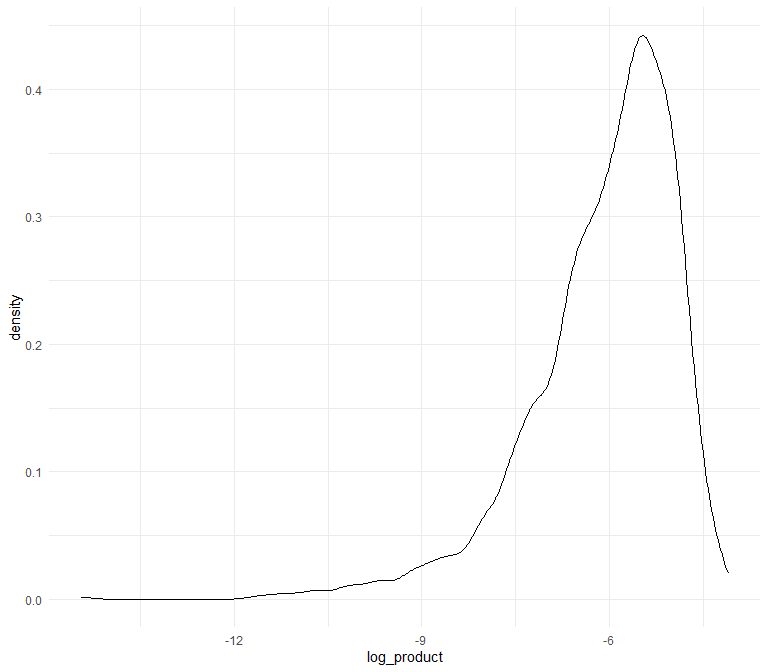
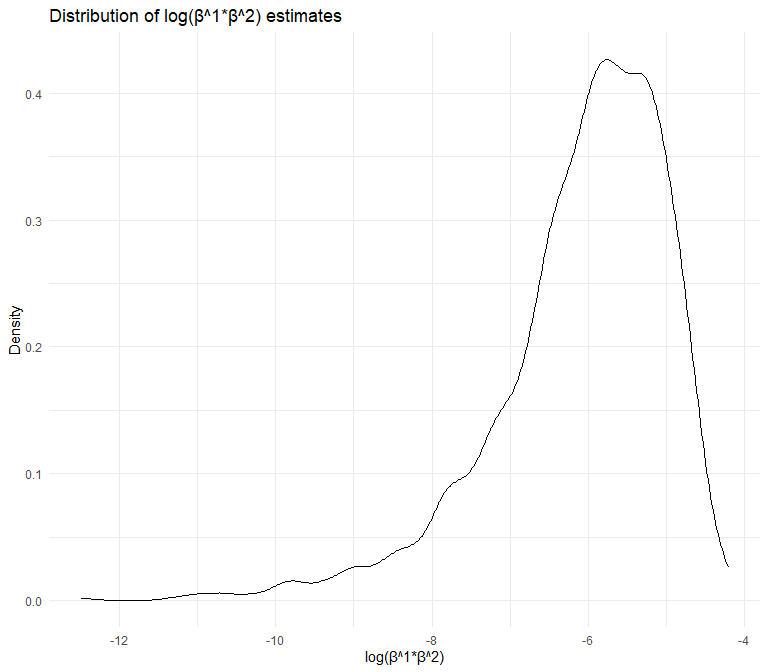
final changes, sorry

diff --git a/p8105_hw6_jmm2511.md b/p8105_hw6_jmm2511.md
@@ -3,7 +3,7 @@ p8105_hw6_jmm2511
 Jessie Merrifield
 2023-11-30
 
-## Problem 2
+# Problem 2
 
 Using Central Park weather data
 
@@ -57,29 +57,55 @@ q2_estimates = weather_df %>%
 
 ``` r
 #removed NaN values
+
+head(q2_estimates)
 ```
+
+    ## # A tibble: 6 × 3
+    ## # Groups:   strap_number [2]
+    ##   strap_number log_product r_squared
+    ##   <chr>              <dbl>     <dbl>
+    ## 1 0001               -5.44     0.898
+    ## 2 0001               -5.44     0.898
+    ## 3 0001               -5.44     0.898
+    ## 4 0006               -7.18     0.918
+    ## 5 0006               -7.18     0.918
+    ## 6 0006               -7.18     0.918
 
 Plot the distribution of your estimates, and describe these in words.
 
 ``` r
 q2_plot_r2 <- q2_estimates %>% 
   ggplot(aes(x=r_squared))+
-  geom_density()
+  geom_density()+
+  labs(
+    title = "Distribution of R^2 estimates",
+    x = "R^2 ",
+    y = "Density")
 
 q2_plot_r2
 ```
 
 <img src="p8105_hw6_jmm2511_files/figure-gfm/plot r2-1.png" width="90%" />
 
-``` r
-q2_plot_r2 <- q2_estimates %>% 
-  ggplot(aes(x=log_product))+
-  geom_density()
+There is a normal distribution with a mean of r^2 around 0.905
 
-q2_plot_r2
+``` r
+q2_plot_log <- q2_estimates %>% 
+  ggplot(aes(x=log_product))+
+  geom_density()+
+  labs(
+    title = "Distribution of log(β^1*β^2) estimates",
+    x = "log(β^1*β^2)",
+    y = "Density")
+
+q2_plot_log
 ```
 
 <img src="p8105_hw6_jmm2511_files/figure-gfm/plot log-1.png" width="90%" />
+
+There is a skewed normal distribution of log(β^1\*β^2) estimates with an
+average around -6.
 
 Using the 5000 bootstrap estimates, identify the 2.5% and 97.5%
 quantiles to provide a 95% confidence interval for r^2 and
@@ -93,7 +119,7 @@ log_product_quantiles
 ```
 
     ##      2.5%     97.5% 
-    ## -9.108701 -4.572475
+    ## -8.981766 -4.601534
 
 ``` r
 r2_quantiles <- quantile(q2_estimates$r_squared, c(0.025, 0.975))
@@ -102,13 +128,13 @@ r2_quantiles
 ```
 
     ##      2.5%     97.5% 
-    ## 0.8829912 0.9258560
+    ## 0.8804482 0.9271143
 
 . Note: broom::glance() is helpful for extracting r^2 from a fitted
 regression, and broom::tidy() (with some additional wrangling) should
 help in computing log(β<sup>1∗β</sup>2)
 
-## Problem 3
+# Problem 3
 
 In this problem, you will analyze data gathered to understand the
 effects of several variables on a child’s birthweight.
@@ -117,7 +143,15 @@ Load and clean the data for regression analysis (i.e. convert numeric to
 factor where appropriate, check for missing data, etc.).
 
 ``` r
-birthweight<-read.csv("./data/birthweight.csv")
+birthweight<-read.csv("./data/birthweight.csv") %>% 
+  mutate(babysex = recode(babysex, "1" ="male", "2" = "female"), 
+         babysex=factor(babysex))
+
+lapply(birthweight,class)
+#variables in integer and numeric
+
+sum(is.na(birthweight))
+#no missing 
 ```
 
 Propose a regression model for birthweight. This model may be based on a
@@ -127,12 +161,102 @@ Describe your modeling process and show a plot of model residuals
 against fitted values – use add_predictions and add_residuals in making
 this plot.
 
-Compare your model to two others:
+``` r
+q3_fit_proposed<-lm(bwt ~ gaweeks + fincome + momage, data= birthweight)
+
+#I did a quick search to see what factors might be commonly linked to birthweight
+
+birthweight |> 
+  modelr::add_residuals(q3_fit_proposed) |> 
+  modelr::add_predictions(q3_fit_proposed) |> 
+  ggplot(aes(x = pred, y = resid)) + 
+  geom_point()+
+  labs(
+    title = "Residuals vs. fitted values",
+    x = "Fitted values",
+    y = "Residuals")
+```
+
+<img src="p8105_hw6_jmm2511_files/figure-gfm/proposed fit and residuals plot-1.png" width="90%" />
+
+### Compare your model to two others:
 
 One using length at birth and gestational age as predictors (main
 effects only)
+
+``` r
+q3_fit_length_weeks <- lm(bwt ~ blength + gaweeks, data = birthweight)
+
+birthweight |> 
+  modelr::add_residuals(q3_fit_length_weeks) |> 
+  modelr::add_predictions(q3_fit_length_weeks) |> 
+  ggplot(aes(x = pred, y = resid)) + 
+  geom_point()+
+  labs(
+    title = "Residuals vs. fitted values",
+    x = "Fitted values",
+    y = "Residuals")
+```
+
+<img src="p8105_hw6_jmm2511_files/figure-gfm/unnamed-chunk-1-1.png" width="90%" />
 
 One using head circumference, length, sex, and all interactions
 (including the three-way interaction) between these Make this comparison
 in terms of the cross-validated prediction error; use crossv_mc and
 functions in purrr as appropriate.
+
+``` r
+q3_fit_length_sex<- lm(bwt ~ bhead * blength + bhead * babysex + blength * babysex, data = birthweight)
+
+birthweight |> 
+  modelr::add_residuals(q3_fit_length_sex) |> 
+  modelr::add_predictions(q3_fit_length_sex) |> 
+  ggplot(aes(x = pred, y = resid)) + 
+  geom_point()+
+  labs(
+    title = "Residuals vs. fitted values",
+    x = "Fitted values",
+    y = "Residuals")
+```
+
+<img src="p8105_hw6_jmm2511_files/figure-gfm/unnamed-chunk-2-1.png" width="90%" />
+
+``` r
+cv_df <- crossv_mc(birthweight, 100) |> 
+  mutate(
+    train = map(train, as_tibble),
+    test = map(test, as_tibble)
+  )
+
+
+
+cv_df <- cv_df |> 
+  mutate(
+    length_sex_mod = map(train, \(df) lm(bwt ~ bhead * blength + bhead * babysex + blength * babysex, data = df)),
+    proposed_mod = map(train, \(df) lm(bwt ~ gaweeks + fincome + momage, data = df))
+  ) |> 
+  mutate(
+    rmse_length_sex = map2_dbl(length_sex_mod, test, \(mod, df) rmse(model = mod, data = df)),
+    rmse_proposed = map2_dbl(proposed_mod, test, \(mod, df) rmse(model = mod, data = df))
+  )
+
+
+cv_df |> 
+  select(starts_with("rmse")) |> 
+  pivot_longer(
+    everything(),
+    names_to = "model", 
+    values_to = "rmse",
+    names_prefix = "rmse_"
+  ) |> 
+  mutate(model = fct_inorder(model)) |> 
+  ggplot(aes(x = model, y = rmse)) + geom_violin() +
+  labs(
+    title = "Distribution of RMSE values by model",
+    y = "Root Mean Squared Error",
+    x = "Model")                         
+```
+
+<img src="p8105_hw6_jmm2511_files/figure-gfm/unnamed-chunk-3-1.png" width="90%" />
+
+The proposed model is not as good.
